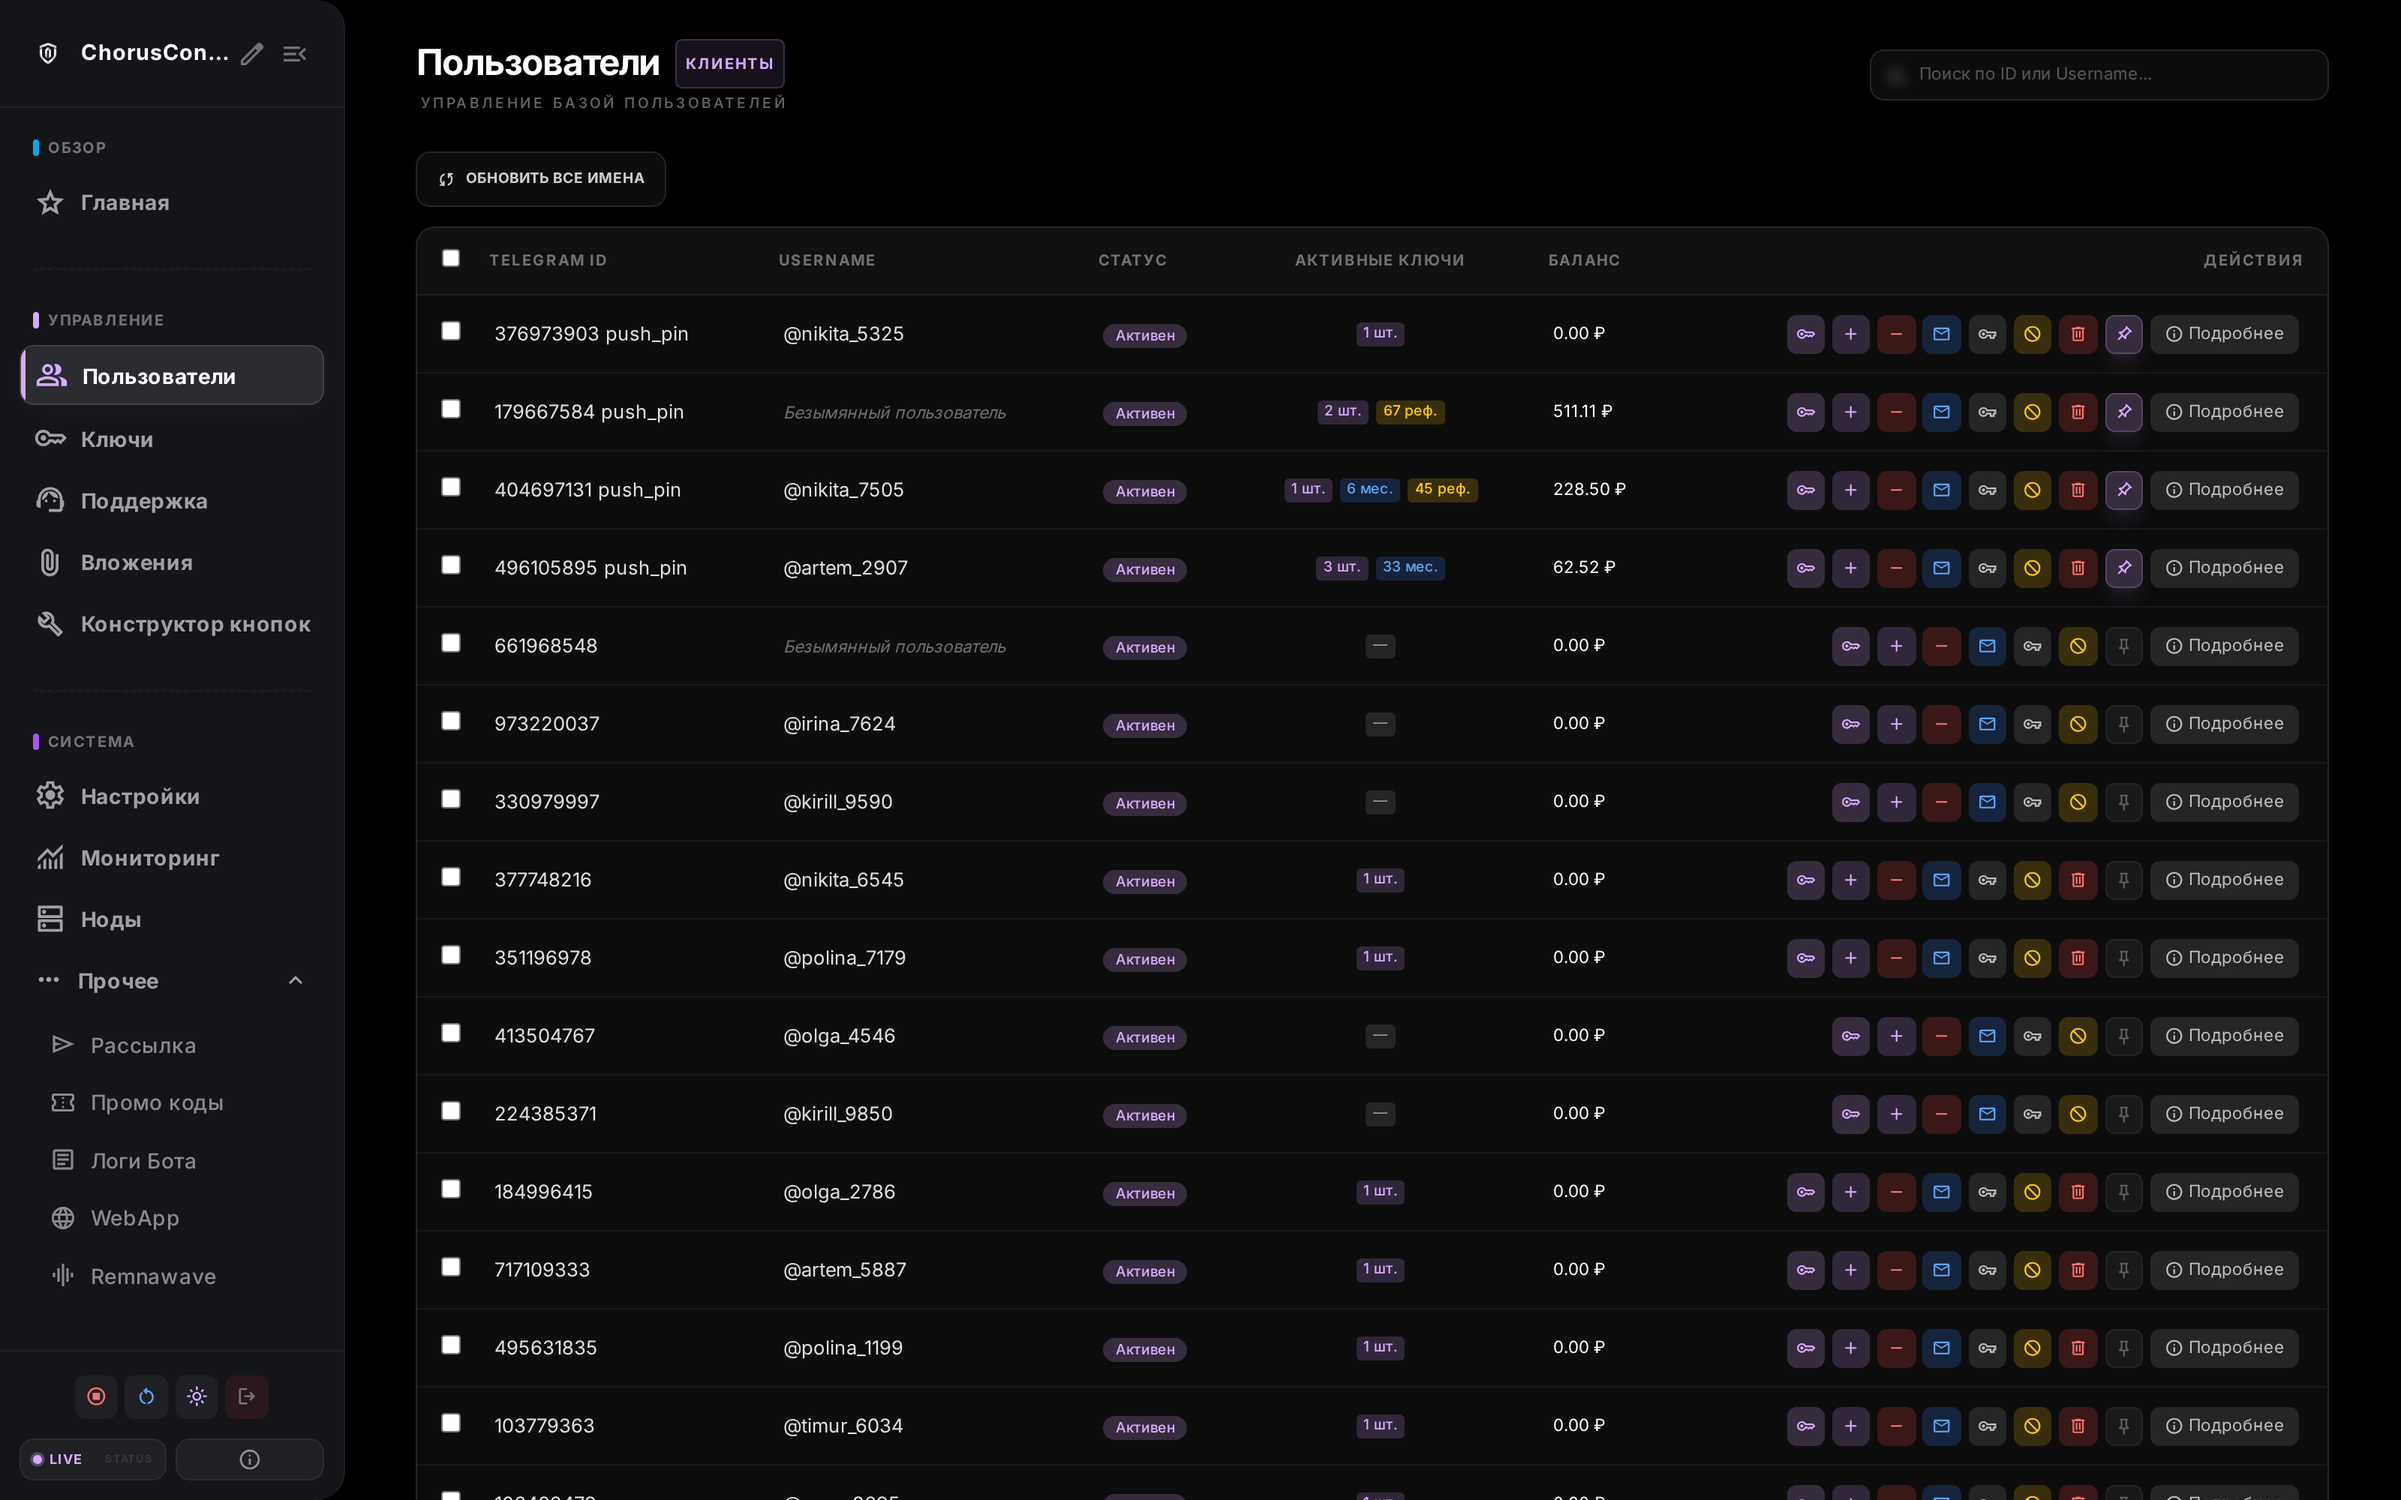
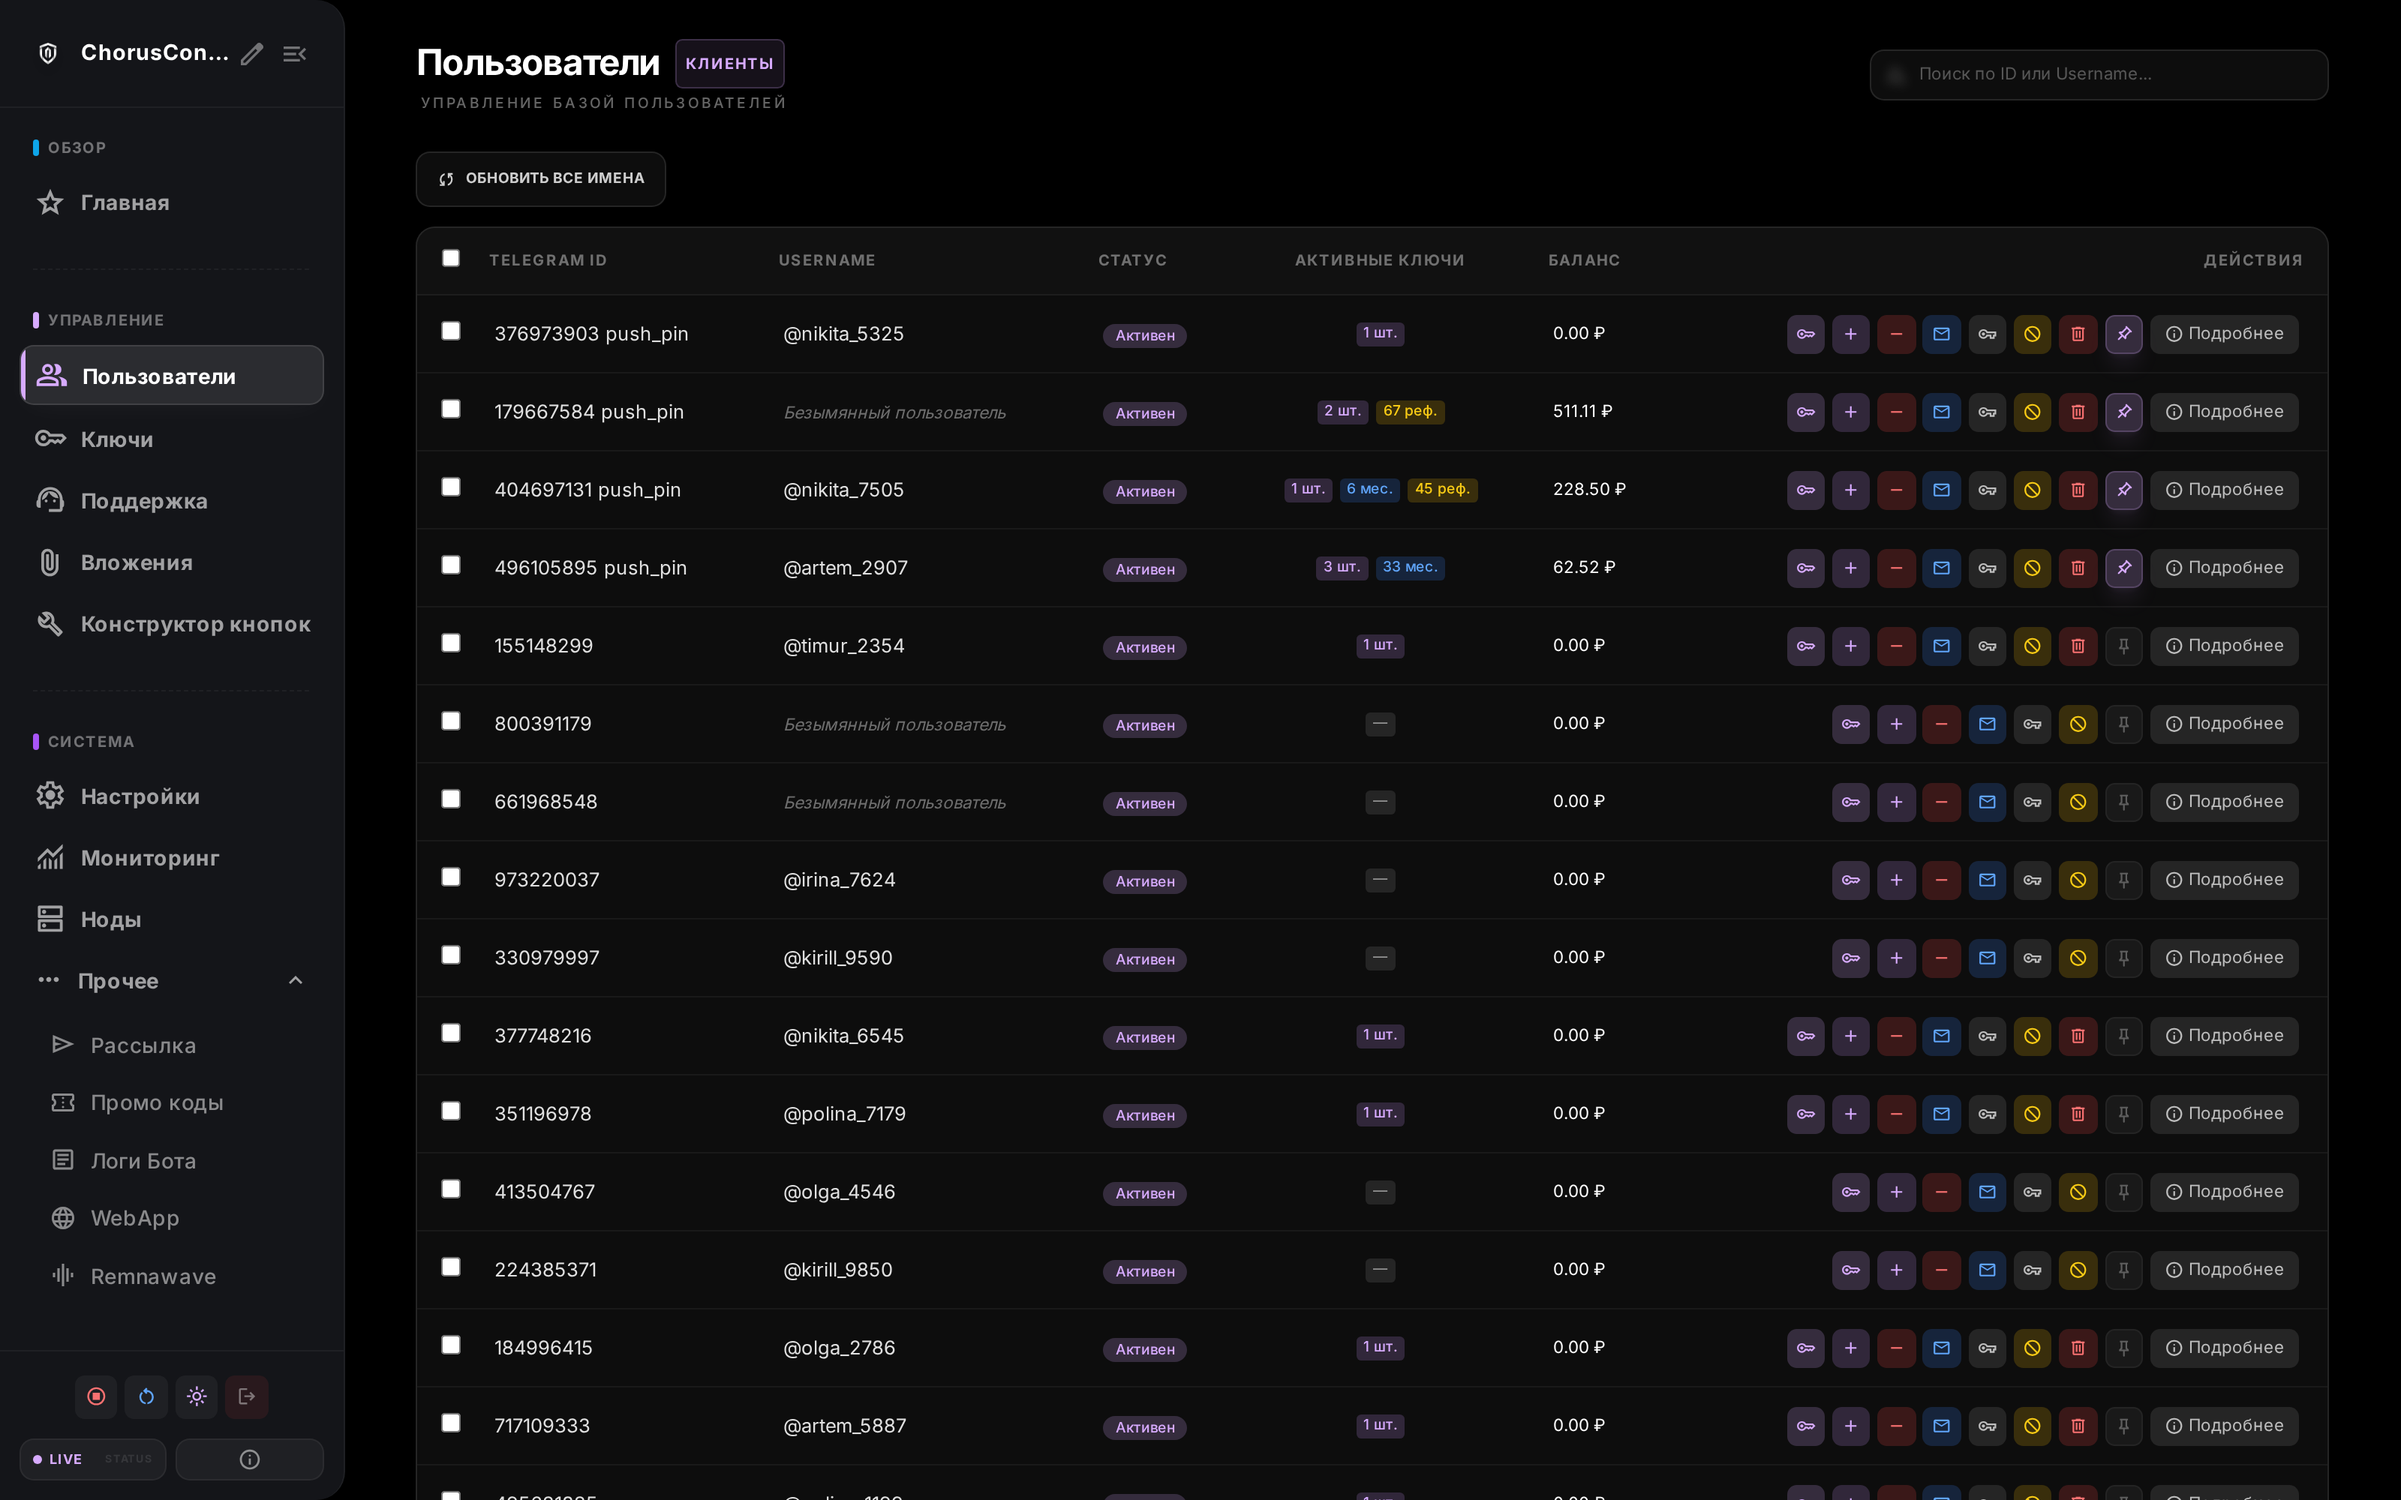
Reshoot the screenshots and document the wheel
Every panel and mini-app shot is retaken on the current interface, plus
two new ones: the wheel in the mini-app and its settings in the panel.

The anonymiser missed the Telegram id inside the referral link — \b does
not fire after an underscore, so ?start=ref_1056198790 went through
untouched. The id rule now keys on digit boundaries instead, and the uuid
rules run before it so substituting digits cannot break a uuid apart and
leave the real remainder on screen. Verified against the live database:
1834 usernames, ids, emails, uuids and subscription links checked against
what is actually visible in each frame — nothing left.

Claude-Session: https://claude.ai/code/session_01Sf76GMJ8AosKc6mK3v3vki

diff --git a/README.md b/README.md
@@ -32,14 +32,22 @@
 | Подписки | Тарифы | Кабинет |
 |:---:|:---:|:---:|
 | ![Подписки](docs/screenshots/app-home.png) | ![Тарифы](docs/screenshots/app-tariffs.png) | ![Кабинет](docs/screenshots/app-profile.png) |
-| ![Инструкция](docs/screenshots/app-guide.png) | ![Поддержка](docs/screenshots/app-support.png) | |
-| Инструкция | Поддержка | |
+| ![Устройства](docs/screenshots/app-devices.png) | ![Колесо](docs/screenshots/app-wheel.png) | ![Инструкция](docs/screenshots/app-guide.png) |
+| Докупка устройств | Колесо удачи | Инструкция |
+| ![Поддержка](docs/screenshots/app-support.png) | | |
+| Поддержка | | |
 
 ### 📱 Устройства докупаются отдельно от продления
 
 Раньше поднять лимит одновременных подключений можно было только вместе с продлением — то есть заплатив за срок, который ещё не кончился. Теперь на локациях с наборами устройств (`device_mode = tiers`) в боте и мини-аппе есть отдельная покупка: срок не меняется, доплата считается по остатку — разница в месячной цене набора, умноженная на оставшиеся дни.
 
 Цену считает только сервер: клиент присылает лишь желаемое количество устройств, а набор и сумма пересчитываются заново перед созданием счёта. Истёкшим, бессрочным и уже максимальным подпискам докупка не предлагается — вместо кнопки они получают объяснение.
+
+### 🎰 Колесо удачи
+
+Бесплатный прокрут раз в сутки — в боте и в мини-аппе. Сектор может дать дни к подписке, рубли на баланс или ничего; состав секторов, их веса и пауза между прокрутами задаются в панели, поэтому шансы меняются без правки кода. Дни падают на подписку, которая кончается раньше остальных.
+
+Розыгрыш идёт целиком на сервере: клиент отправляет «крути» и получает результат, так что выигрыш нельзя подделать запросом. Попытка занимается одним условным `UPDATE` — двойной тап не прокрутит колесо дважды. Шансы видно и в боте, и в мини-аппе: колесо, которое их прячет, доверия не стоит.
 
 ### 🔗 Привязка Telegram к веб-аккаунту
 
@@ -70,8 +78,8 @@
 | Настройки | Вложения поддержки |
 | ![Конструктор кнопок](docs/screenshots/buttons.png) | ![Рассылка](docs/screenshots/broadcast.png) |
 | Конструктор кнопок | Рассылка |
-| ![Поддержка](docs/screenshots/support.png) | |
-| Обращения | |
+| ![Поддержка](docs/screenshots/support.png) | ![Колесо удачи](docs/screenshots/wheel.png) |
+| Обращения | Колесо удачи |
 
 <sub>Данные на скриншотах подменены: идентификаторы, имена и ссылки подписок — выдуманные.</sub>
 
